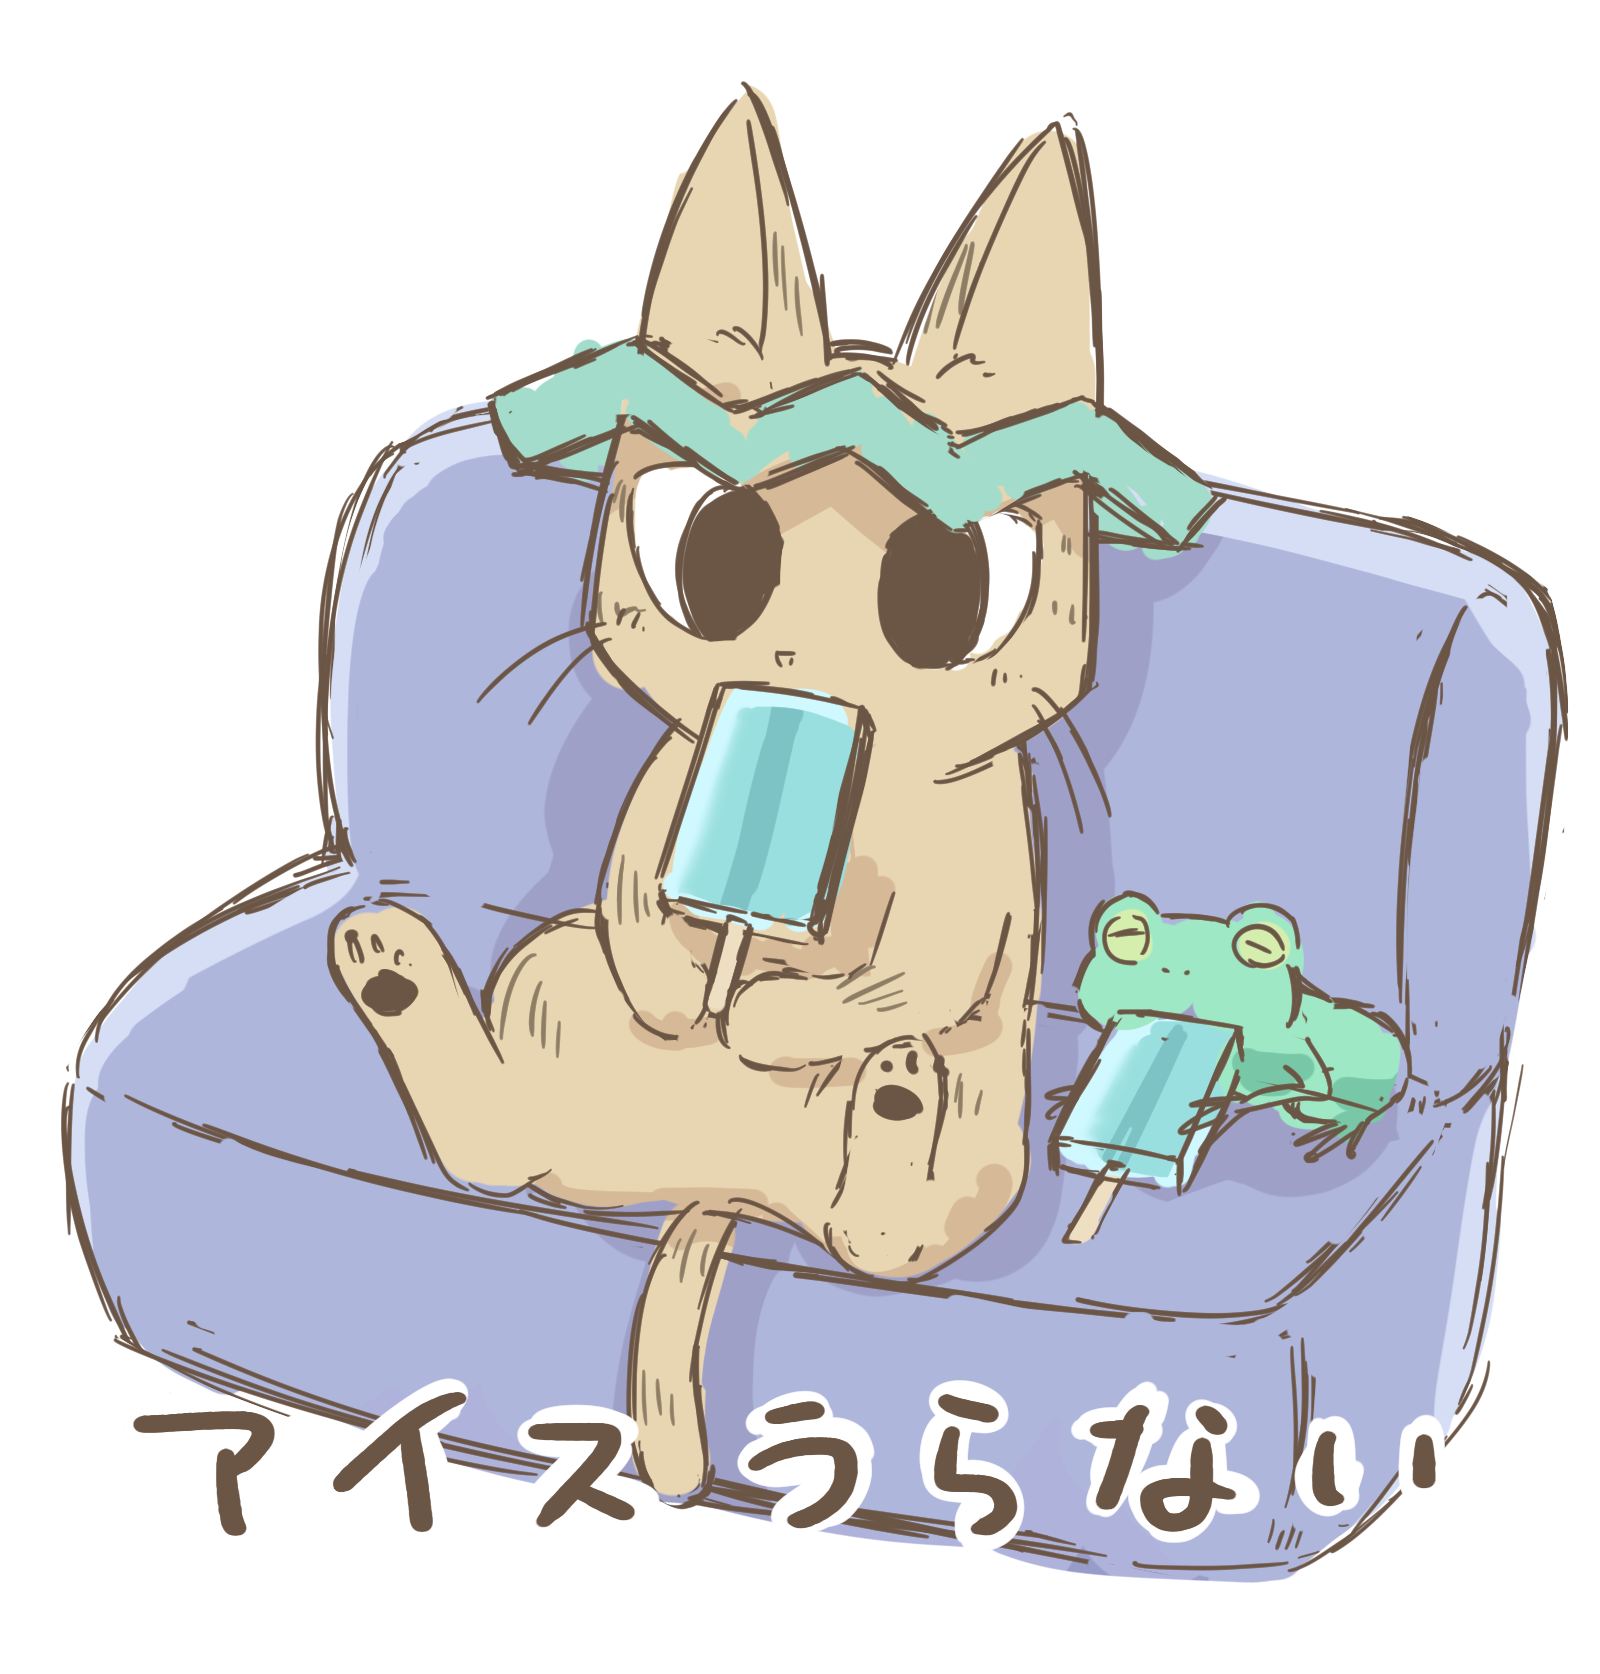
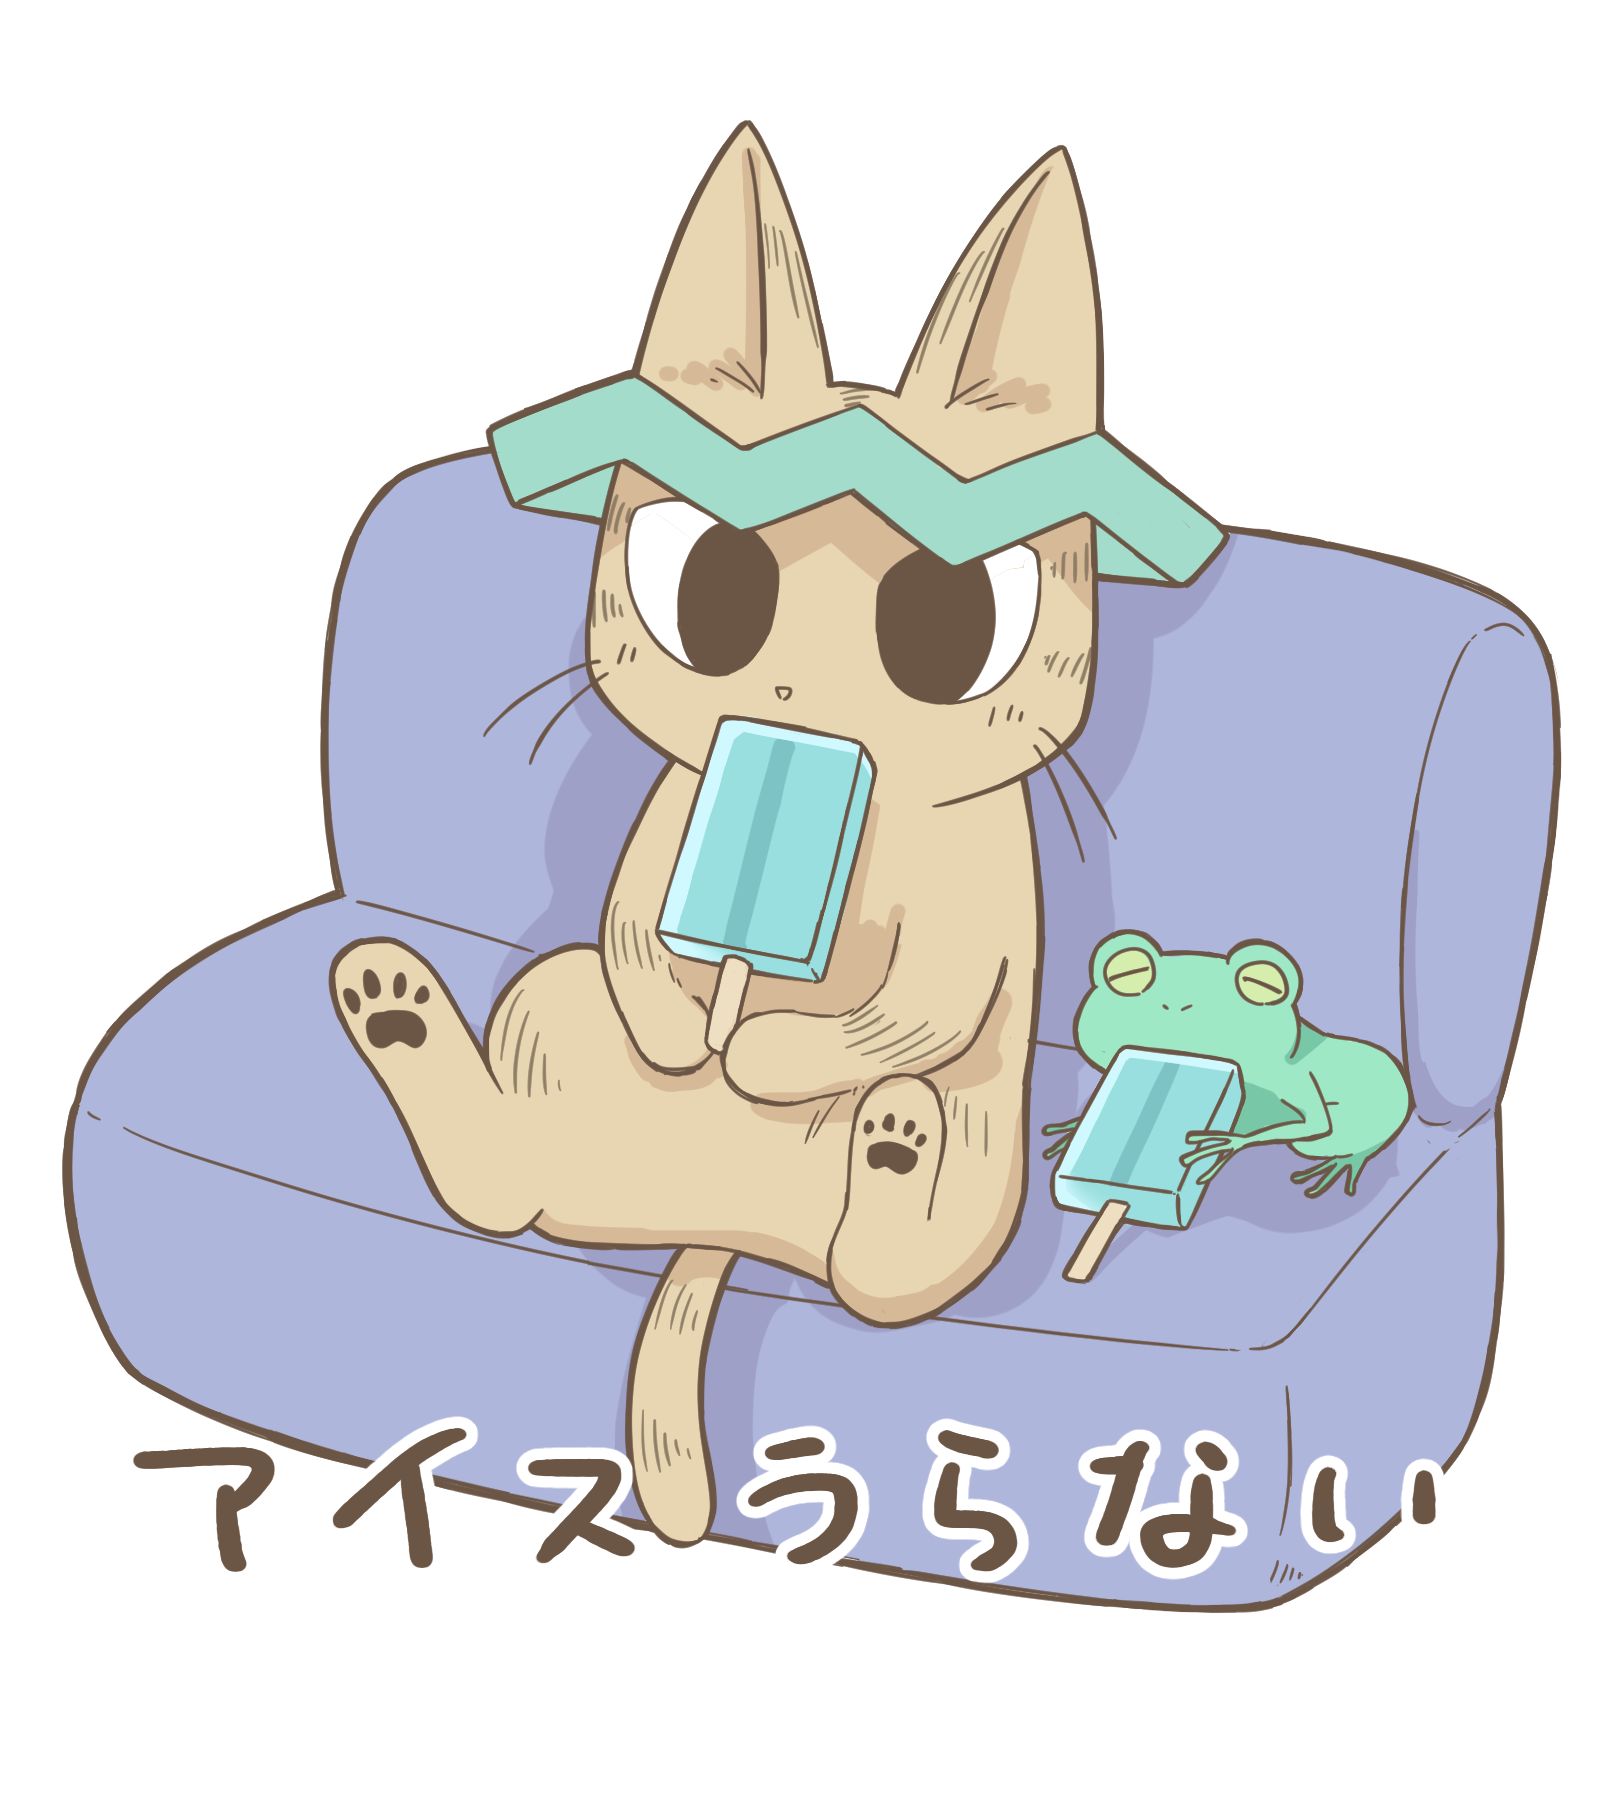
update:DBからの読み取り回数を減らす #105

Changed region(s): [[0.0312, 0.0621, 1.0, 0.963], [0.0938, 0.6523, 0.1562, 0.6834]]

diff --git a/functions/hosting/index.html b/functions/hosting/index.html
@@ -1,1 +1,1 @@
-<!doctype html><html lang="en"><head><meta charset="utf-8"/><link rel="stylesheet" href="https://cdn.jsdelivr.net/npm/destyle.css@1.0.15/destyle.css"/><link rel="preconnect" href="https://fonts.googleapis.com"/><link rel="preconnect" href="https://fonts.gstatic.com" crossorigin/><link href="https://fonts.googleapis.com/css2?family=Inter:wght@100..900&display=swap" rel="stylesheet"/><link href="https://fonts.googleapis.com/css2?family=Noto+Sans+JP:wght@100..900&display=swap" rel="stylesheet"/><link rel="icon" href="/logo.png"/><meta name="viewport" content="width=device-width,initial-scale=1"/><meta name="theme-color" content="#000000"/><link rel="apple-touch-icon" href="/logo192.png"/><link rel="manifest" href="/manifest.json"/><title>Bath Boost🐾 | お風呂キャンセル防止アプリ</title><meta name="description" content="友達とおふろ報告をしてお風呂に入ろう！🐈🐸🛀"/><meta property="og:title" content="Bath Boost🐾 | お風呂キャンセル防止アプリ"/><meta property="og:description" content="友達とおふろ報告をしてお風呂に入ろう！🐈🐸🛀"/><meta property="og:image" content="https://firebasestorage.googleapis.com/v0/b/bath-boost-dev.firebasestorage.app/o/top_image.png?alt=media"/><meta name="twitter:card" content="summary_large_image"/><meta name="twitter:description" content="友達とおふろ報告をしてお風呂に入ろう！🐈🐸🛀"/><script defer="defer" src="/static/js/main.c7bce738.js"></script><link href="/static/css/main.ce57784d.css" rel="stylesheet"></head><body><noscript>You need to enable JavaScript to run this app.</noscript><div id="root"></div></body></html>
+<!doctype html><html lang="en"><head><meta charset="utf-8"/><link rel="stylesheet" href="https://cdn.jsdelivr.net/npm/destyle.css@1.0.15/destyle.css"/><link rel="preconnect" href="https://fonts.googleapis.com"/><link rel="preconnect" href="https://fonts.gstatic.com" crossorigin/><link href="https://fonts.googleapis.com/css2?family=Inter:wght@100..900&display=swap" rel="stylesheet"/><link href="https://fonts.googleapis.com/css2?family=Noto+Sans+JP:wght@100..900&display=swap" rel="stylesheet"/><link rel="icon" href="/logo.png"/><meta name="viewport" content="width=device-width,initial-scale=1"/><meta name="theme-color" content="#000000"/><link rel="apple-touch-icon" href="/logo192.png"/><link rel="manifest" href="/manifest.json"/><title>Bath Boost🐾 | お風呂キャンセル防止アプリ</title><meta name="description" content="友達とおふろ報告をしてお風呂に入ろう！🐈🐸🛀"/><meta property="og:title" content="Bath Boost🐾 | お風呂キャンセル防止アプリ"/><meta property="og:description" content="友達とおふろ報告をしてお風呂に入ろう！🐈🐸🛀"/><meta property="og:image" content="https://firebasestorage.googleapis.com/v0/b/bath-boost-dev.firebasestorage.app/o/top_image.png?alt=media"/><meta name="twitter:card" content="summary_large_image"/><meta name="twitter:description" content="友達とおふろ報告をしてお風呂に入ろう！🐈🐸🛀"/><script defer="defer" src="/static/js/main.c228eaff.js"></script><link href="/static/css/main.ce57784d.css" rel="stylesheet"></head><body><noscript>You need to enable JavaScript to run this app.</noscript><div id="root"></div></body></html>

diff --git a/functions/index.js b/functions/index.js
@@ -8,13 +8,12 @@ admin.initializeApp();
 exports.sendReminder = functions
   .region("asia-northeast1")
   .runWith({ memory: "512MB" })
-  .pubsub.schedule("every 1 minutes")
+  .pubsub.schedule("every 5 minutes")
   .timeZone("Asia/Tokyo")
   .onRun(async (context) => {
     // 秒を切り捨てた現在時刻
     const now = (() => {
       let s = admin.firestore.Timestamp.now().seconds;
-      s = s - (s % 60);
       return new admin.firestore.Timestamp(s, 0);
     })();
     console.log(now);
@@ -24,7 +23,8 @@ exports.sendReminder = functions
       const remindersSnapshot = await admin
         .firestore()
         .collection("notifications")
-        .where("time", "==", now)
+        .where("time", ">=", now)
+        .where("time", "<", new admin.firestore.Timestamp(now.seconds + 300, 0))
         .get();
 
       // 取得したドキュメントごとに処理

diff --git a/src/components/room/Room.js b/src/components/room/Room.js
@@ -4,7 +4,9 @@ import {
   collection,
   doc,
   getDoc,
+  limit,
   onSnapshot,
+  orderBy,
   query,
   where,
 } from "firebase/firestore";
@@ -99,7 +101,9 @@ const Room = () => {
     const getPostsRealtime = () => {
       const postsQuery = query(
         collection(db, "posts"),
-        where("roomid", "==", roomID)
+        where("roomid", "==", roomID),
+        orderBy("date", "desc"),
+        limit(50)
       );
 
       const unsubscribe = onSnapshot(postsQuery, (snapshot) => {

diff --git a/src/components/room/SetBathGoal.js b/src/components/room/SetBathGoal.js
@@ -78,7 +78,7 @@ const SetBathGoal = ({
     }
 
     const notificationTime = new Date(goalDateTime);
-    notificationTime.setMinutes(notificationTime.getMinutes() - 5);
+    notificationTime.setMinutes(notificationTime.getMinutes() - 10);
 
     // ルーム画面へ
     closeSelectStamp();
